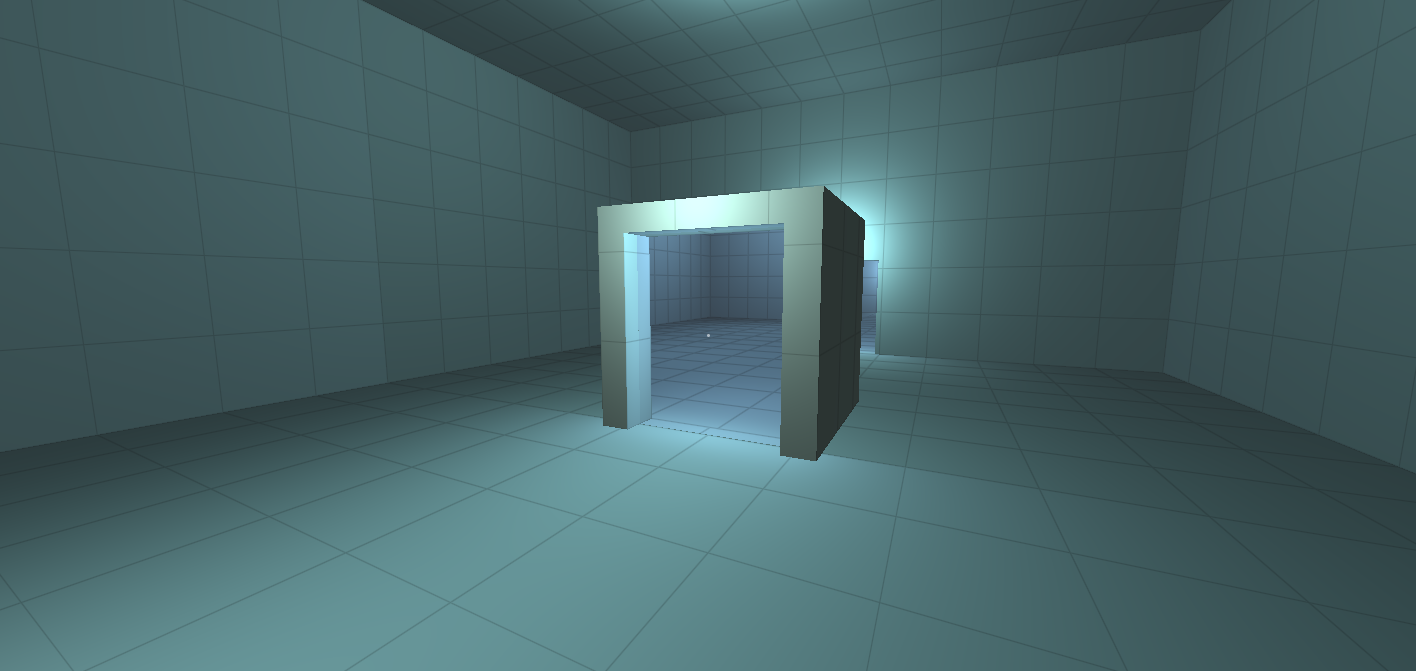
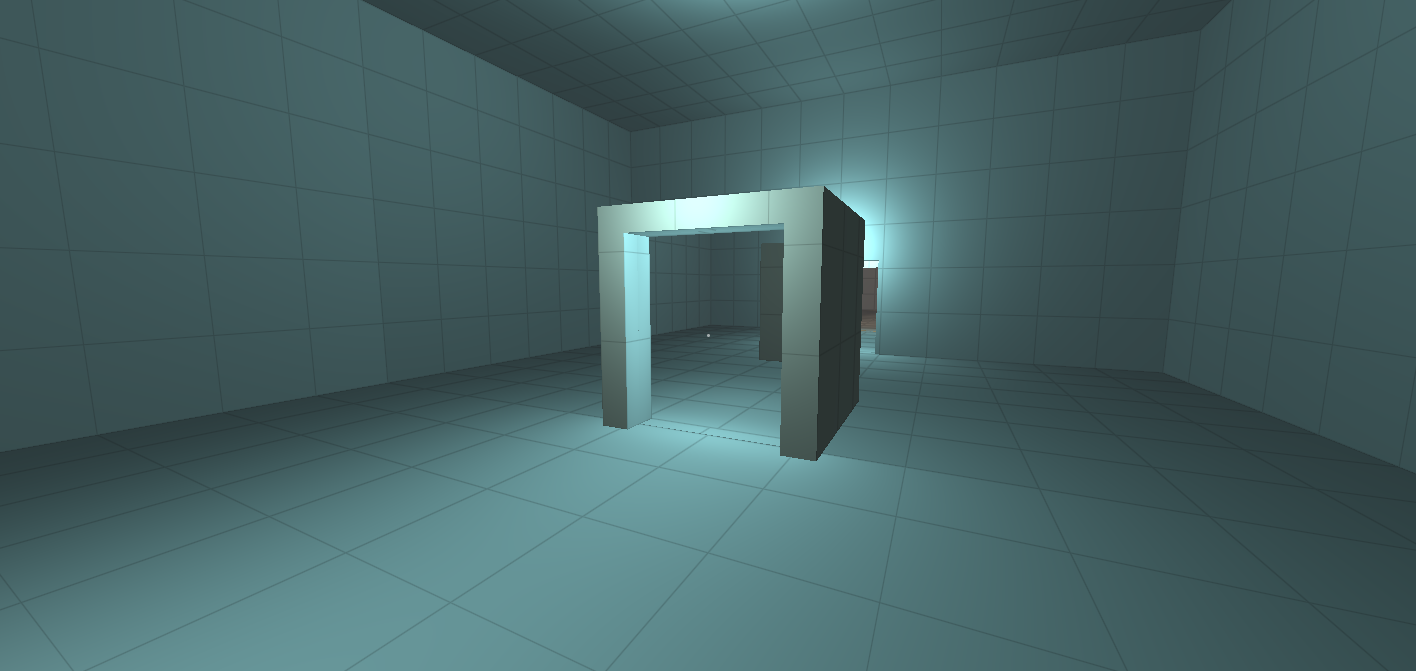
le coffre ne contient plus une nef, il contient sa propre salle
La nef séparée disparaît. La porte du coffre débouche désormais par la porte du
mur du fond de la salle où le coffre est posé : on entre dans une boîte de deux
mètres cinquante et l'on ressort dans la pièce de douze où elle se trouve.

Plus petit, et plus fort. Une salle séparée, si vaste soit-elle, reste une pièce
qu'on n'avait jamais vue, et le visiteur peut toujours se dire qu'elle est
ailleurs. En rebouclant sur la salle même, il n'y a plus d'ailleurs : il regarde
par la petite porte et il voit, de dos, le coffre où il regarde, et derrière lui
la porte par laquelle il est entré. Le contenant contient son contenant,
cinquante-cinq fois son propre volume.

Au passage, une propriété du moteur qu'on n'avait jamais éprouvée : une couture
peut avoir ses deux bouches dans la même cellule. Cela n'a rien demandé — l'espace
cousu relie des bouches, pas des pièces, et ni le rendu ni le déplacement ne
supposaient qu'elles appartiennent à deux salles distinctes. L'espace pavé s'en
servira.

Le monde perd donc une cellule et une couture. Les invariants du reliquaire sont
réécrits en conséquence : le rapport des volumes se mesure maintenant entre le
coffre et sa propre salle, et la boucle se compte en une traversée au lieu de deux.

Changed region(s): [[0.435, 0.3279, 0.5593, 0.5961], [0.5904, 0.3875, 0.6215, 0.5067]]

diff --git a/src/world/world.ts b/src/world/world.ts
@@ -312,29 +312,27 @@ const VRILLE = makeTwist({
 })
 
 /**
- * **Le reliquaire** — le premier volume impossible du musée.
+ * **Le reliquaire** — le volume impossible du musée, et il l'est en boucle.
  *
- * Au centre de la salle, un coffre de deux mètres soixante. Dans sa face, une porte
+ * Au centre de la salle, un coffre de deux mètres cinquante. Dans sa face, une porte
  * ordinaire, celle de partout ailleurs : un mètre quatre-vingts sur deux mètres vingt.
  * Elle occupe donc presque toute la face, et c'est là que le compte cesse d'y être —
  * une porte à hauteur d'homme dans une boîte à peine plus haute qu'elle.
  *
- * Derrière : une nef de seize mètres sur seize, haute de huit. Trente-six fois le volume
- * du coffre qui la contient, et plus du double de celui de la salle où le coffre est
- * posé.
+ * Et derrière cette porte, il n'y a pas d'autre salle : **il y a celle-ci**. Le coffre
+ * débouche par la porte du mur du fond, à huit mètres de là. On entre dans une boîte de
+ * deux mètres cinquante et l'on ressort dans la pièce de douze mètres où elle est posée.
  *
- * **Aucune tricherie d'échelle.** Les deux bouches de la couture ont exactement la même
- * taille, la transformation reste rigide, et le visiteur garde sa stature. C'est bien un
- * plein volume qu'on a rangé dans une boîte trop petite, pas une illusion d'optique ni
- * un rétrécissement : on peut faire le tour du coffre, le mesurer du regard, et rien ne
- * change. Le plan appelle cela le meilleur rapport effet/effort du projet, et il a
- * raison — l'espace cousu le donne presque pour rien.
+ * Le contenant contient donc son contenant. Cinquante-cinq fois son propre volume, ce qui
+ * est déjà absurde, mais ce n'est pas le plus fort : ce qui l'est, c'est que le coffre ne
+ * contient pas *une* salle plus grande, il contient **la sienne**. Une nef séparée, si
+ * vaste soit-elle, reste une pièce qu'on n'avait jamais vue, et le visiteur peut toujours
+ * se dire qu'elle est ailleurs. Là, il n'y a pas d'ailleurs : il regarde par la petite
+ * porte et il voit, de dos, le sol qu'il foule et la boîte où il regarde.
  *
- * **La nef ressort dans la salle de départ.** Sa seconde porte s'ouvre dans le mur d'en
- * face de la pièce au coffre : on entre dans une boîte de deux mètres soixante et on
- * ressort seize mètres plus loin par un mur qui était derrière soi, avec le coffre —
- * intact, minuscule — entre soi et la porte d'entrée. C'est le moment où l'on se retourne
- * pour vérifier.
+ * **Aucune tricherie d'échelle.** Les deux bouches ont exactement la même taille, la
+ * transformation reste rigide, et le visiteur garde sa stature. On peut faire le tour du
+ * coffre, le mesurer du regard, et rien ne change.
  */
 /** L'aile qui l'accueille : celle réservée à ce qui se contient soi-même. */
 const RELIQUARY_WING = 'recursive'
@@ -352,9 +350,9 @@ const RELIQUARY_WING = 'recursive'
  * restent exactes. C'est une contrainte à connaître avant de poser une cote, pas après.
  */
 const RELIQUARY_SIDE = 2.5
-/** La paroi du coffre qu'on perce, et celle de la salle par où la nef ressort. */
+/** La paroi du coffre qu'on perce, et celle de la salle par où l'on en ressort. */
 const RELIQUARY_FACE: Wall = 'west'
-const NAVE_EXIT_WALL: Wall = 'east'
+const RELIQUARY_EXIT_WALL: Wall = 'east'
 
 /** Le coffre, posé au milieu de sa salle et sur son sol. */
 function reliquaryIn(box: Box): Box {
@@ -374,13 +372,6 @@ function middleOf(box: Box, wall: Wall): number {
     : (box.min.z + box.max.z) / 2
 }
 
-/** La nef, rangée à deux cents mètres de la salle qui la contient. */
-const NAVE_BOX: Box = { min: { x: 800, y: 0, z: 800 }, max: { x: 816, y: 8, z: 816 } }
-const NAVE = 'reliquaire'
-const NAVE_TINT: Colour = [0.42, 0.72, 0.95]
-/** Par où l'on entre dans la nef, et par où l'on en sort. Aux deux bouts, seize mètres. */
-const NAVE_ENTRY_WALL: Wall = 'north'
-const NAVE_RETURN_WALL: Wall = 'south'
 
 /**
  * Une bouche percée dans la face d'un bloc plein.
@@ -429,44 +420,6 @@ function blockMouth(cell: string, id: string, box: Box, wall: Wall, lateral: num
         right: { x: 0, y: 0, z: -1 },
         normal: { x: 1, y: 0, z: 0 },
       }
-  }
-}
-
-/**
- * L'éclairage de la nef.
- *
- * Six lampes, le maximum que le nuanceur accepte, et il les faut toutes : une salle de
- * seize mètres éclairée par une seule source centrale a des coins parfaitement noirs, ce
- * qui ne dit pas « grand » mais « inachevé ». Quatre lampes hautes en carré, plus une
- * applique au-dessus de chaque porte pour que la nef ait de quoi transmettre par ses
- * ouvertures.
- */
-function naveLighting(mouths: Mouth[]): CellLighting {
-  const tint = NAVE_TINT
-  // Suspendues bas, et non collées au plafond. Une lampe à huit mètres du sol perd
-  // quarante fois son intensité avant de l'atteindre : la nef paraissait alors plus sombre
-  // que la salle où l'on se tient, ce qui inverse exactement ce qu'on veut raconter — la
-  // boîte doit contenir plus grand **et** plus clair que ce qui l'entoure.
-  const quarter = (t: number, u: number): Vec3 => ({
-    x: NAVE_BOX.min.x + (NAVE_BOX.max.x - NAVE_BOX.min.x) * t,
-    y: NAVE_BOX.max.y - 2.5,
-    z: NAVE_BOX.min.z + (NAVE_BOX.max.z - NAVE_BOX.min.z) * u,
-  })
-
-  return {
-    ambient: [tint[0] * 0.07, tint[1] * 0.07, tint[2] * 0.07],
-    lights: [
-      { position: quarter(0.28, 0.28), colour: tint, intensity: 14, radius: 16 },
-      { position: quarter(0.72, 0.28), colour: tint, intensity: 14, radius: 16 },
-      { position: quarter(0.28, 0.72), colour: tint, intensity: 14, radius: 16 },
-      { position: quarter(0.72, 0.72), colour: tint, intensity: 14, radius: 16 },
-      ...mouths.map((m) => ({
-        position: add(add(m.center, scale(m.normal, REVEAL + 0.7)), { x: 0, y: 1.4, z: 0 }),
-        colour: tint,
-        intensity: 5,
-        radius: 7,
-      })),
-    ],
   }
 }
 
@@ -651,13 +604,13 @@ export function buildWorld(): World {
     if (chest) {
       mouths.push(
         blockMouth(wing.id, 'reliquaire.coffre', chest, RELIQUARY_FACE, middleOf(chest, RELIQUARY_FACE)),
-        mouth(wing.id, 'reliquaire.sortie', wing.box, NAVE_EXIT_WALL, middleOf(wing.box, NAVE_EXIT_WALL)),
+        mouth(wing.id, 'reliquaire.sortie', wing.box, RELIQUARY_EXIT_WALL, middleOf(wing.box, RELIQUARY_EXIT_WALL)),
       )
     }
 
     const holes: RoomHoles = twisted ? {} : { [wing.wall]: [holeOf(mouths[0]!)] }
     // La porte du coffre ne perce aucune paroi de la salle : elle perce le coffre.
-    if (chest) holes[NAVE_EXIT_WALL] = [holeOf(mouths[2]!)]
+    if (chest) holes[RELIQUARY_EXIT_WALL] = [holeOf(mouths[2]!)]
 
     wingData.push({
       wing,
@@ -716,31 +669,24 @@ export function buildWorld(): World {
   hubPassages.push(hubToLoop)
   wingPassages.get('vrille')!.push(loopToHub)
 
-  // Les deux coutures du reliquaire : le coffre vers la nef, et la nef vers le mur d'en
-  // face de la salle où le coffre est posé. La seconde est ce qui referme la boucle —
-  // sans elle, la nef serait un cul-de-sac et il faudrait ressortir par où l'on est
-  // entré, ce qui laisse au visiteur la possibilité de croire à un simple couloir.
+  // **La couture du reliquaire a ses deux bouches dans la même cellule.**
+  //
+  // C'est le premier cas du genre, et il ne demande rien de particulier : l'espace cousu
+  // relie des bouches, pas des pièces, et rien dans le rendu ni dans le déplacement ne
+  // suppose qu'elles appartiennent à deux cellules distinctes. Une salle peut donc se
+  // recoller à elle-même — ce qui servira encore à l'espace pavé.
+  //
+  // Ce que cela donne : on entre dans une boîte de deux mètres cinquante et l'on ressort
+  // par le mur du fond de la pièce où elle est posée. Et par la petite porte, on voit
+  // cette même pièce, vue du fond : son sol, ses murs, et le coffre lui-même, de dos.
   const chestWing = wingData.find((entry) => entry.wing.id === RELIQUARY_WING)!
-  const naveMouths = [
-    mouth(NAVE, 'reliquaire.nef', NAVE_BOX, NAVE_ENTRY_WALL, middleOf(NAVE_BOX, NAVE_ENTRY_WALL)),
-    mouth(NAVE, 'reliquaire.retour', NAVE_BOX, NAVE_RETURN_WALL, middleOf(NAVE_BOX, NAVE_RETURN_WALL)),
-  ]
-  const naveLights = naveLighting(naveMouths)
-
-  const [intoNave, outOfNave] = makePassages(
+  const [intoChest, outOfChest] = makePassages(
     chestWing.mouths[1]!,
     chestWing.lighting,
-    naveMouths[0]!,
-    naveLights,
-  )
-  const [naveToWing, wingToNave] = makePassages(
-    naveMouths[1]!,
-    naveLights,
     chestWing.mouths[2]!,
     chestWing.lighting,
   )
-  wingPassages.get(RELIQUARY_WING)!.push(intoNave, wingToNave)
-  const navePassages: Passage[] = [outOfNave, naveToWing]
+  wingPassages.get(RELIQUARY_WING)!.push(intoChest, outOfChest)
 
   // --- La géométrie ---------------------------------------------------------
   const hubHoles: RoomHoles = {}
@@ -820,27 +766,6 @@ export function buildWorld(): World {
       lighting: entry.lighting,
       ...(twisted ? { twist: VRILLE } : {}),
       ...(entry.chest ? { blocks: [{ ...entry.chest, door: entry.mouths[1]! }] } : {}),
-    })
-  }
-
-  // --- La nef, qui ne tient pas dans le coffre qui la contient ----------------
-  {
-    const extra: number[] = []
-    for (const m of naveMouths) pushReveal(extra, m, tinted(NAVE_TINT, 0.55))
-
-    cells.push({
-      id: NAVE,
-      min: NAVE_BOX.min,
-      max: NAVE_BOX.max,
-      verts: concat(
-        buildRoom(NAVE_BOX.min, NAVE_BOX.max, paletteFor(NAVE_TINT), {
-          [NAVE_ENTRY_WALL]: [holeOf(naveMouths[0]!)],
-          [NAVE_RETURN_WALL]: [holeOf(naveMouths[1]!)],
-        }),
-        extra,
-      ),
-      passages: navePassages,
-      lighting: naveLights,
     })
   }
 

diff --git a/src/dev/selftest.ts b/src/dev/selftest.ts
@@ -574,13 +574,14 @@ export function runSelfTest(world: World): Check[] {
   //    **La porte laisse passer.** L'exception d'ouverture existe déjà pour les parois ;
   //    il fallait la même pour les blocs, sans quoi le coffre serait hermétique.
   //
-  //    **On ressort dans la salle de départ, ailleurs.** C'est la boucle : deux
-  //    traversées, la même cellule au bout, et une bonne dizaine de mètres entre le point
-  //    d'entrée et le point de sortie. Sans cette distance, rien ne distinguerait la
-  //    boucle d'un aller-retour par la même porte.
+  //    **On ressort dans la salle de départ, ailleurs.** C'est toute l'affaire : une
+  //    traversée, la **même cellule** au bout, et une bonne distance entre l'entrée et la
+  //    sortie. La couture a ses deux bouches dans la même pièce, ce qui est un cas que le
+  //    moteur n'avait jamais rencontré — et qu'il traite sans rien de particulier,
+  //    puisqu'il relie des bouches et non des pièces.
   //
   //    **Le contenu ne tient pas dans le contenant.** Le rapport des volumes est l'énoncé
-  //    même de la tricherie ; le mesurer évite qu'un jour on rétrécisse la nef sans s'en
+  //    même de la tricherie ; le mesurer évite qu'un jour on rapetisse la salle sans s'en
   //    apercevoir, et que le musée se mette à mentir un peu moins.
   {
     const marks = getLandmarks()
@@ -633,8 +634,17 @@ export function runSelfTest(world: World): Check[] {
         `arrêté à ${gap.toFixed(3)} m de la paroi, rayon ${PROBE_BODY.radius}`,
       )
 
-      // La boucle : on entre par la porte du coffre, on traverse la nef, on ressort.
+      // La boucle : on entre par la porte du coffre, et l'on ressort **dans la même
+      // salle**, par le mur du fond. C'est là toute l'affaire, et c'est ce qu'on mesure :
+      // une traversée, la même cellule au bout, et une bonne distance entre les deux —
+      // sans quoi rien ne distinguerait la chose d'une porte qui donne sur elle-même.
       const seamInto = room.passages.find((p) => p.from === chest.door)
+      add_(
+        'reliquaire · le coffre donne sur sa propre salle',
+        seamInto !== undefined && seamInto.to.cell === room.id,
+        seamInto ? `vers ${seamInto.to.id}, cellule ${seamInto.to.cell}` : 'couture introuvable',
+      )
+
       const visitor = new Player()
       visitor.goTo(
         { name: 'reliquaire', cell: marks.chestCell, pos: marks.chestPos, forward: marks.chestForward },
@@ -644,45 +654,33 @@ export function runSelfTest(world: World): Check[] {
 
       let guard = 0
       while (visitor.crossings === 0 && guard++ < 60) visitor.walk(world, 0.2)
-      const nave = world.cells.get(visitor.cell)
       add_(
         'reliquaire · la porte du coffre laisse entrer',
-        visitor.crossings === 1 && visitor.cell !== room.id,
+        visitor.crossings === 1,
         `${visitor.crossings} traversée(s), cellule ${visitor.cell}`,
       )
-
-      // Dans la nef, on vise l'autre porte — celle par où l'on n'est pas entré. Marcher
-      // droit devant soi ne prouverait rien : on entre en biais, et seize mètres plus loin
-      // on est contre un mur, ce qui ne dit ni que la salle est traversable ni qu'elle ne
-      // l'est pas.
-      const back = nave?.passages.find((p) => p.from !== seamInto?.to)
-      if (back) visitor.face(normalize(sub(back.from.center, visitor.pos)))
-
-      guard = 0
-      while (visitor.crossings === 1 && guard++ < 160) visitor.walk(world, 0.2)
       add_(
-        'reliquaire · la nef ressort dans la salle de départ',
-        visitor.crossings === 2 && visitor.cell === room.id,
-        `${visitor.crossings} traversée(s), cellule ${visitor.cell}`,
+        'reliquaire · on ressort dans la salle de départ',
+        visitor.crossings === 1 && visitor.cell === room.id,
+        `cellule ${visitor.cell} après ${visitor.crossings} traversée(s)`,
       )
       add_(
         'reliquaire · on ressort ailleurs qu’on est entré',
-        distance(visitor.pos, start) > 8,
+        distance(visitor.pos, start) > 6,
         `${distance(visitor.pos, start).toFixed(1)} m entre le seuil du coffre et la sortie`,
       )
 
-      // Le rapport des volumes, qui est l'énoncé de la tricherie.
-      if (nave) {
-        const volume = (c: { min: Vec3; max: Vec3 }): number =>
-          (c.max.x - c.min.x) * (c.max.y - c.min.y) * (c.max.z - c.min.z)
-        const ratio = volume(nave) / volume(chest)
-        add_(
-          'reliquaire · le contenu ne tient pas dans le contenant',
-          ratio > 30,
-          `la nef fait ${ratio.toFixed(0)} fois le volume du coffre,` +
-            ` et ${(volume(nave) / volume(room)).toFixed(1)} fois celui de la salle`,
-        )
-      }
+      // Le rapport des volumes, qui est l'énoncé de la tricherie. La salle est ici son
+      // propre contenu : le coffre contient la pièce où il est posé.
+      const volume = (c: { min: Vec3; max: Vec3 }): number =>
+        (c.max.x - c.min.x) * (c.max.y - c.min.y) * (c.max.z - c.min.z)
+      const ratio = volume(room) / volume(chest)
+      add_(
+        'reliquaire · le contenu ne tient pas dans le contenant',
+        ratio > 30,
+        `le coffre contient une salle ${ratio.toFixed(0)} fois plus grande que lui —` +
+          ` et c'est la sienne`,
+      )
 
       // Et rien ne rétrécit en passant : les deux bouches ont la même taille, ce qui est
       // la condition pour que la transformation reste rigide. Le jour où l'on voudra une

diff --git a/README.md b/README.md
@@ -12,7 +12,8 @@ portfolio. Ce dépôt-ci contient le moteur.
 qu'on n'arrive pas à prendre en défaut, un éclairage qui franchit les ouvertures, le
 saut et la chute — le **tunnel-vrille**, dont la section pivote d'un quart de tour sur
 dix-huit mètres, gravité comprise — et le **volume impossible** : un coffre de deux mètres
-cinquante qui contient une nef de seize. Cinq ailes attendent encore leur mécanique.
+cinquante qui contient la salle de douze où il est posé. Cinq ailes attendent encore leur
+mécanique.
 
 ## Démarrer
 
@@ -41,8 +42,7 @@ Le plan du musée est une **rotonde** de 14 × 5 × 14, percée de huit portes, 
 **ailes** — une par tricherie géométrique : le tunnel-vrille et le reliquaire, qui
 tournent ; la gravité par face, l'escalier de Penrose, l'espace pavé, les murs mobiles et
 la perspective forcée, qui attendent. Les cinq dernières sont vides, et c'est voulu : on
-les remplira une par une, chacune avec son propre problème. S'y ajoute la **nef** du
-reliquaire, qui n'a pas de porte sur la rotonde : on n'y entre que par le coffre.
+les remplira une par une, chacune avec son propre problème.
 
 Les ailes sont éloignées de **centaines de mètres** les unes des autres et de la
 rotonde. Aucune ne se touche. Ce n'est pas de l'économie de place mais une précaution
@@ -280,8 +280,16 @@ ordinaire, celle de partout ailleurs : un mètre quatre-vingts sur deux mètres 
 occupe donc presque toute la face, et c'est là que le compte cesse d'y être — une porte à
 hauteur d'homme dans une boîte à peine plus haute qu'elle.
 
-Derrière : une nef de seize mètres sur seize, haute de huit. **Cent trente et une fois le
-volume du coffre**, et deux fois et demie celui de la salle où le coffre est posé.
+Et derrière cette porte, il n'y a pas d'autre salle : **il y a celle-ci.** Le coffre
+débouche par la porte du mur du fond, à huit mètres de là. On entre dans une boîte de deux
+mètres cinquante et l'on ressort dans la pièce de douze mètres où elle est posée.
+
+Le contenant contient donc son contenant — **cinquante-cinq fois son propre volume**. Ce
+n'est pas le chiffre qui compte, c'est la circularité. Une salle séparée, si vaste
+soit-elle, reste une pièce qu'on n'avait jamais vue, et le visiteur peut toujours se dire
+qu'elle est ailleurs. Ici il n'y a pas d'ailleurs : il regarde par la petite porte et il
+voit, de dos, le coffre où il regarde, et derrière lui la porte par laquelle il est entré
+dans la salle.
 
 **Aucune tricherie d'échelle.** Les deux bouches de la couture ont exactement la même
 taille, la transformation reste rigide, et le visiteur garde sa stature. Ce n'est ni une
@@ -289,12 +297,10 @@ illusion d'optique ni un rétrécissement : on fait le tour du coffre, on le mes
 regard, et rien ne change. C'est ce que le plan appelait le meilleur rapport effet/effort
 du projet, et il avait raison — l'espace cousu le donne presque pour rien.
 
-**La nef ressort dans la salle de départ.** Sa seconde porte s'ouvre dans le mur d'en face
-de la pièce au coffre : on entre dans une boîte de deux mètres cinquante, on marche seize
-mètres, et l'on ressort par un mur qui était derrière soi — avec le coffre, intact et
-minuscule, entre soi et la porte d'entrée. Sans cette boucle, la nef serait un cul-de-sac
-dont on ressortirait par où l'on est entré, ce qui laisse au visiteur la ressource de
-croire à un simple couloir.
+**Une couture dont les deux bouches sont dans la même cellule.** C'est le premier cas du
+genre, et il n'a rien demandé : l'espace cousu relie des bouches, pas des pièces, et rien
+dans le rendu ni dans le déplacement ne supposait qu'elles appartiennent à deux salles
+distinctes. Une pièce peut donc se recoller à elle-même. L'espace pavé s'en servira.
 
 Deux choses ont demandé du travail, et une troisième a demandé de l'humilité.
 
@@ -324,8 +330,8 @@ différences restent exactes — une contrainte à connaître avant de poser une
 
 Enfin, le point de vue du test est pris **de trois quarts, et de loin**. De face et de
 près, le coffre remplit le champ et redevient ce qu'il n'est pas : une porte dans un mur.
-Il faut voir deux de ses faces, ses arêtes contre la salle, et la nef par l'ouverture. Un
-volume impossible qu'il faut expliquer est un volume raté.
+Il faut voir deux de ses faces, ses arêtes contre la salle, et par l'ouverture cette même
+salle vue du fond. Un volume impossible qu'il faut expliquer est un volume raté.
 
 ### La verticalité
 
@@ -375,11 +381,11 @@ défaut le plus visible du prototype.
 
 S'y ajoutent les invariants du reliquaire, dont trois qui ne parlent pas de coutures mais
 de matière : on ne traverse pas un bloc plein, on n'y reste pas **pris** — un point posé
-en son centre doit ressortir, et ressortir dehors —, et la boucle boucle : deux traversées,
-la salle de départ au bout, et une dizaine de mètres entre le seuil du coffre et la sortie.
-S'y ajoute le rapport des volumes, qui est l'énoncé même de la tricherie : le mesurer évite
-qu'on rétrécisse un jour la nef sans s'en apercevoir, et que le musée se mette à mentir un
-peu moins.
+en son centre doit ressortir, et ressortir dehors —, et la boucle boucle : une traversée,
+**la même cellule** au bout, et une dizaine de mètres entre le seuil du coffre et la
+sortie. S'y ajoute le rapport des volumes, qui est l'énoncé même de la tricherie : le
+mesurer évite qu'on rapetisse un jour la salle sans s'en apercevoir, et que le musée se
+mette à mentir un peu moins.
 
 **Les points de vue**, capturés dans `shots/` : les dix situations qui trahissent
 un portail mal fait — nez collé à l'ouverture, regard rasant, pile dans
